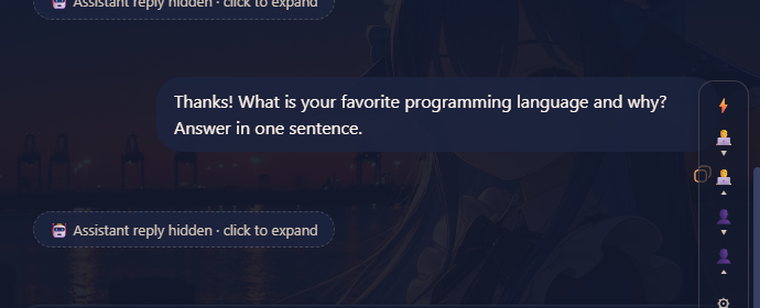
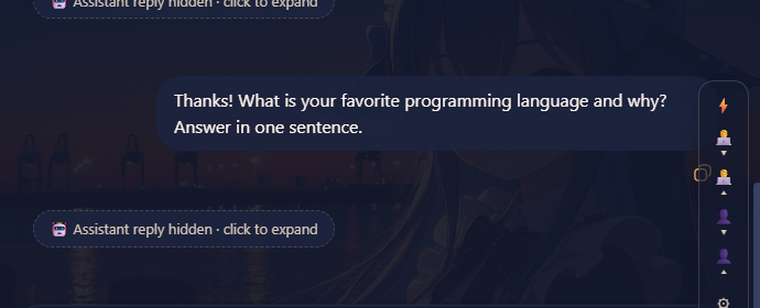
feat(v0.2.1): auto-fold only assistant replies (keep recent N, 0 = fold all); user messages always visible in auto mode; one-click hide/show buttons for both kinds remain

diff --git a/lib/client.js b/lib/client.js
@@ -6,11 +6,10 @@ window.__ModuleLoader__.load({
 		Object.defineProperty(exports, Symbol.toStringTag, { value: "Module" });
 
 		//#region settings
-		const STORAGE_KEY = "dsh-collapse-history:settings:v2";
+		const STORAGE_KEY = "dsh-collapse-history:settings:v3";
 		const DEFAULTS = Object.freeze({
 			auto: true,
-			assistantKeep: 2,
-			userKeep: 2
+			assistantKeep: 1
 		});
 
 		function clamp(value, lo, hi) {
@@ -24,8 +23,7 @@ window.__ModuleLoader__.load({
 					const parsed = JSON.parse(raw);
 					return {
 						auto: typeof parsed.auto === "boolean" ? parsed.auto : DEFAULTS.auto,
-						assistantKeep: Number.isFinite(parsed.assistantKeep) ? clamp(parsed.assistantKeep, 0, 10) : DEFAULTS.assistantKeep,
-						userKeep: Number.isFinite(parsed.userKeep) ? clamp(parsed.userKeep, 0, 10) : DEFAULTS.userKeep
+						assistantKeep: Number.isFinite(parsed.assistantKeep) ? clamp(parsed.assistantKeep, 0, 10) : DEFAULTS.assistantKeep
 					};
 				}
 			} catch (_) { /* storage unavailable or corrupt — fall through */ }
@@ -57,12 +55,11 @@ window.__ModuleLoader__.load({
 				? "👤 你的消息已隐藏 · 点击展开"
 				: "👤 Your message hidden · click to expand",
 			keepAssistant: isZh ? "保留最近助手回复条数" : "Keep recent assistant messages",
-			keepUser: isZh ? "保留最近你的消息条数" : "Keep recent of your messages",
 			clearPins: isZh ? "清除手动固定（恢复自动折叠）" : "Clear manual pins (resume auto fold)",
 			reset: isZh ? "恢复默认设置" : "Reset defaults",
 			hint: isZh
-				? "自动模式下，较旧的助手回复与你的消息会整段收起，最近 N 轮保持展开；手动操作过的轮次会被固定，直到清除固定。"
-				: "In auto mode, older assistant replies and your messages fold entirely; the most recent N turns stay expanded. Manually toggled turns are pinned until you clear pins."
+				? "自动模式下只会折叠较旧的助手回复（你的消息始终可见），最近 N 条助手回复保持展开；设为 0 则全部助手回复都折叠。手动操作过的轮次会被固定，直到清除固定。"
+				: "Auto mode only folds older assistant replies — your messages always stay visible. The most recent N assistant replies stay expanded (set 0 to fold every assistant reply). Manually toggled turns are pinned until you clear pins."
 		};
 		//#endregion
 
@@ -184,7 +181,7 @@ window.__ModuleLoader__.load({
 			}
 		}
 
-		/** One auto-fold pass: keep the most recent N of each kind expanded, fold the rest. */
+		/** One auto-fold pass: fold older assistant turns; user messages are never auto-folded. */
 		function autoFold() {
 			if (!settings.auto) return;
 			const turns = buildTurns();
@@ -193,12 +190,6 @@ window.__ModuleLoader__.load({
 			assistants.forEach((turn, index) => {
 				if (index >= assistants.length - keepAssistant) setTurnHidden(turn, false);
 				else if (!isRunning(turn)) setTurnHidden(turn, true);
-			});
-			const users = turns.filter((turn) => turn.kind === "user");
-			const keepUser = clamp(settings.userKeep, 0, 10);
-			users.forEach((turn, index) => {
-				if (index >= users.length - keepUser) setTurnHidden(turn, false);
-				else setTurnHidden(turn, true);
 			});
 		}
 		//#endregion
@@ -381,21 +372,6 @@ window.__ModuleLoader__.load({
 			assistantLabel.appendChild(assistantInput);
 			pop.appendChild(assistantLabel);
 
-			const userLabel = document.createElement("label");
-			userLabel.appendChild(document.createTextNode(T.keepUser + " "));
-			const userInput = document.createElement("input");
-			userInput.type = "number";
-			userInput.min = "0";
-			userInput.max = "10";
-			userInput.value = String(settings.userKeep);
-			userInput.addEventListener("change", () => {
-				settings.userKeep = clamp(Number(userInput.value) || 0, 0, 10);
-				saveSettings();
-				autoFold();
-			});
-			userLabel.appendChild(userInput);
-			pop.appendChild(userLabel);
-
 			const clearBtn = document.createElement("button");
 			clearBtn.type = "button";
 			clearBtn.className = "dshc-pop-btn";
@@ -413,7 +389,6 @@ window.__ModuleLoader__.load({
 				clearPins();
 				autoCheck.checked = settings.auto;
 				assistantInput.value = String(settings.assistantKeep);
-				userInput.value = String(settings.userKeep);
 			});
 			pop.appendChild(resetBtn);
 

diff --git a/README.md b/README.md
@@ -12,7 +12,7 @@ A zero-build, dependency-free **client plugin** for [DeepSeek Harness](https://g
 
 | Feature | Description |
 | --- | --- |
-| ⚡ **Auto fold (default ON)** | Older turns fold automatically; the most recent \`N\` assistant replies and \`N\` user messages stay expanded. |
+| ⚡ **Auto fold (default ON)** | Older **assistant replies** fold automatically; the most recent \`N\` stay expanded (set \`0\` to fold every assistant reply). **Your messages are never auto-folded**, so browsing history stays natural. |
 | 🧑💻 **Hide all assistant replies** | Every assistant turn (thinking, text, tool calls) collapses into a chip — **you see only your own questions**. |
 | 👤 **Hide all your messages** | The reverse view: only the assistant's replies remain. |
 | 🖱 **One-click expand** | Click any chip to expand that turn. Manually toggled turns are *pinned* — auto mode never undoes your choice. |
@@ -26,7 +26,7 @@ A zero-build, dependency-free **client plugin** for [DeepSeek Harness](https://g
 
 ![demo](docs/demo.gif)
 
-*Auto fold → hide all assistant replies → show all → hide all user messages → show all.*
+*Auto fold (assistant-only) → hide all assistant replies → show all → hide all user messages → show all.*
 
 ## 📸 Screenshots
 
@@ -97,8 +97,7 @@ Stored in \`localStorage\` (\`dsh-collapse-history:settings:v2\`), editable from
 | Key | Default | Range | Meaning |
 | --- | --- | --- | --- |
 | \`auto\` | \`true\` | bool | Master switch for auto folding |
-| \`assistantKeep\` | \`2\` | 0–10 | How many **most recent assistant replies** stay expanded |
-| \`userKeep\` | \`2\` | 0–10 | How many **most recent user messages** stay expanded |
+| \`assistantKeep\` | \`1\` | 0–10 | How many **most recent assistant replies** stay expanded (\`0\` = fold every assistant reply) |
 
 ## 🛠 How it works
 

diff --git a/README.zh.md b/README.zh.md
@@ -12,7 +12,7 @@
 
 | 功能 | 说明 |
 | --- | --- |
-| ⚡ **自动折叠（默认开启）** | 较旧的轮次自动收起，最近 N 条助手回复和 N 条你的消息保持展开。 |
+| ⚡ **自动折叠（默认开启）** | 只自动折叠较旧的**助手回复**，最近 N 条保持展开（设为 0 可全部折叠）；**你的消息永远不会被自动折叠**，浏览历史不打断。 |
 | 🧑💻 **隐藏全部助手回复** | 每条助手轮次（思考、正文、工具调用）整段收成胶囊——**界面只剩你的问题**。 |
 | 👤 **隐藏全部你的消息** | 反过来：只保留助手的回复。 |
 | 🖱 **点击即展开** | 点任意胶囊即可展开该轮；手动操作过的轮次会被「固定」，自动模式不会覆盖。 |
@@ -26,7 +26,7 @@
 
 ![demo](docs/demo.gif)
 
-*自动折叠 → 隐藏全部助手回复 → 全部显示 → 隐藏全部你的消息 → 全部显示。*
+*自动折叠（仅助手）→ 隐藏全部助手回复 → 全部显示 → 隐藏全部你的消息 → 全部显示。*
 
 ## 📸 界面截图
 
